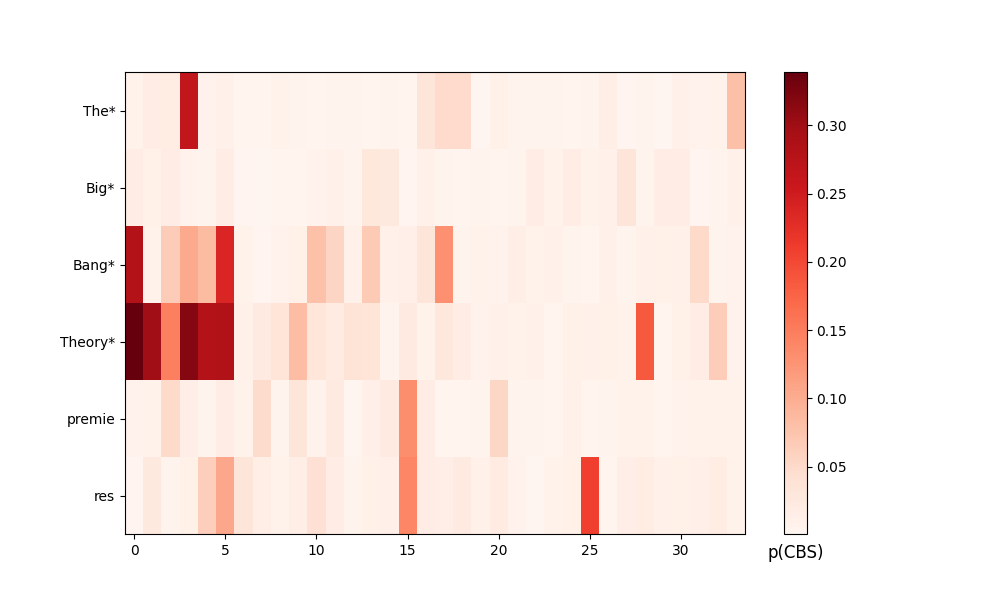
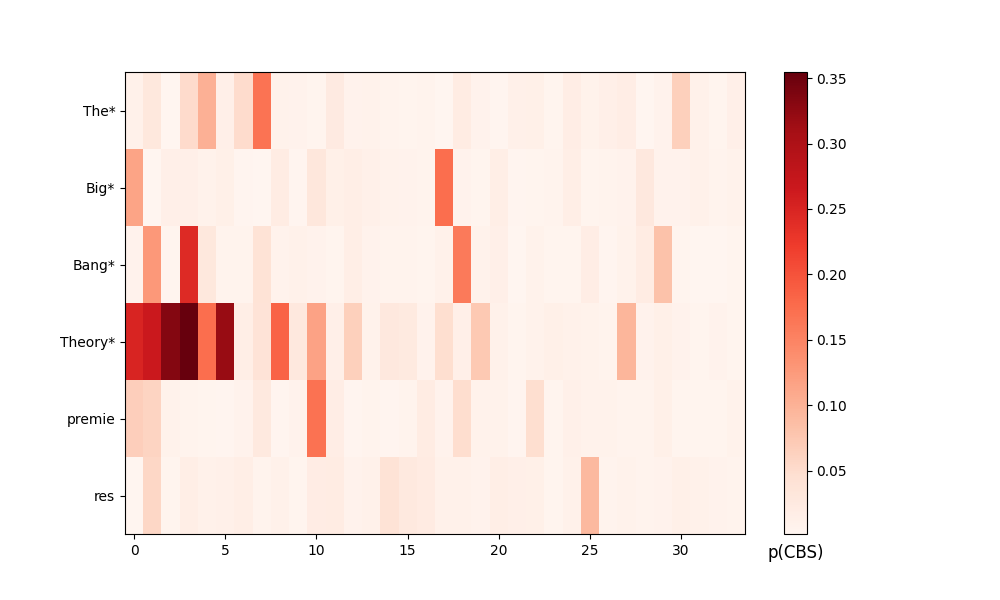
small refactor

diff --git a/ROME.py b/ROME.py
@@ -6,8 +6,84 @@ from transformers import GPT2Tokenizer, GPT2LMHeadModel
 from hooks import FullModelHooks, hidden_patch_hook_fn, additive_noise, mlp_patch_interval, attn_patch_interval
 
 
+def eval_model(model, tokenizer, base_text: str, entity_indices: str, correct_output_text: str):
+    device = next(model.parameters()).device
 
-model_size = 'xl'
+    encoded_base_text = tokenizer(base_text, return_tensors='pt').to(device)
+    num_tokens = encoded_base_text['input_ids'].shape[1]
+    
+    encoded_correct_output_text = tokenizer(correct_output_text, return_tensors='pt').to(device)
+    correct_id = encoded_correct_output_text['input_ids'].item()
+
+    # initial pass
+    output = model(**encoded_base_text)
+
+    # save outputs of model on correct text
+    correct_hidden = {key: hook.features[0].to('cpu') for key, hook in hooks.items() if key.startswith('transformer->h->')}
+
+    # add embedding noise
+    hooks.add_custom_hook('transformer->wte', 'embedding_noise', additive_noise(indices=f"{entity_indices},:", std=0.1))
+
+    # init results
+    results = dict(mlp=dict(), attn=dict(), hidden=dict())
+
+    # mlp
+    for center in range(num_heads):
+        results['mlp'][center] = dict()
+        for pos in range(num_tokens):
+            new_keys = []
+            for layer in range(max(0,center-5), min(num_heads, center+5)): #TODO currently removing and recreating hooks too often -> make as sliding window
+                old_key = f'transformer->h->{layer}->mlp'
+                new_key = f'patch_h{layer}_mlp_pos{pos}'
+                new_keys.append(new_key)
+                hooks.add_custom_hook(old_key, new_key, hidden_patch_hook_fn(pos, correct_hidden[old_key][pos]))
+            output = model(**encoded_base_text)
+
+            prob = torch.softmax(output["logits"][0,-1,:], 0)[correct_id].item()
+            results['mlp'][center][pos] = prob
+            
+            for key in new_keys:
+                hooks.remove_hook(key)
+
+    # attn
+    for center in range(num_heads):
+        results['attn'][center] = dict()
+        for pos in range(num_tokens):
+            new_keys = []
+            for layer in range(max(0,center-5), min(num_heads, center+5)): #TODO currently removing and recreating hooks too often -> make as sliding window
+                old_key = f'transformer->h->{layer}->attn'
+                new_key = f'patch_h{layer}_attn_pos{pos}'
+                new_keys.append(new_key)
+                hooks.add_custom_hook(old_key, new_key, hidden_patch_hook_fn(pos, correct_hidden[old_key][0][pos]))
+            output = model(**encoded_base_text)
+
+            prob = torch.softmax(output["logits"][0,-1,:], 0)[correct_id].item()
+            results['attn'][center][pos] = prob
+            
+            for key in new_keys:
+                hooks.remove_hook(key)
+
+    # hidden
+    for head_num in range(num_heads):
+        results['hidden'][head_num] = dict()
+        for pos in range(num_tokens):
+            old_key = f'transformer->h->{head_num}'
+            new_key = f'patch_h{head_num}_pos{pos}'
+            hooks.add_custom_hook(old_key, new_key, hidden_patch_hook_fn(pos, correct_hidden[old_key][0][pos]))
+
+            output = model(**encoded_base_text)
+
+            prob = torch.softmax(output["logits"][0,-1,:], 0)[correct_id].item()
+            results['hidden'][head_num][pos] = prob
+
+            hooks.remove_hook(new_key)
+
+    return results
+
+
+
+model_size = 'large'
+
 device = 'cuda' if (torch.cuda.is_available() and model_size != 'xl') else 'cpu' # xl doesn't fit on my gpu
 
 size2suffix = {'small':'', 'medium':'-medium', 'large':'-large', 'xl':'-xl'}
@@ -18,85 +94,12 @@ model = GPT2LMHeadModel.from_pretrained(f"gpt2{size2suffix[model_size]}")
 model.to(device)
 model.eval()
 
-
 hooks = FullModelHooks(model)
-print(hooks)
 
 base_text = "The Big Bang Theory premieres on"
-encoded_input = tokenizer(base_text, return_tensors='pt').to(device)
-num_tokens = encoded_input['input_ids'].shape[1]
-print(f"{encoded_input['input_ids'].shape = }") 
+correct_output_text = " CBS"
 
-
-encoded_output = tokenizer(" CBS", return_tensors='pt').to(device)
-correct_id = encoded_output['input_ids'][0,0]
-# print(f'{correct_id = }')
-
-output = model(**encoded_input)
-# probs = torch.softmax(output['logits'][0,-1,:], 0)
-# print(f"{probs[correct_id] = }")
-# print(f"{probs.max() = }")
-# print(f"{probs.argmax() = }")
-# max_token = tokenizer.batch_decode(probs.argmax()[None])
-# print(f'{max_token = }')
-
-# save outputs of model on correct text -> very expensive computation, maybe iteratively save to disk instead?
-correct_hidden = {key: hook.features[0].to('cpu') for key, hook in hooks.items() if key.startswith('transformer->h->')}
-
-hooks.add_custom_hook('transformer->wte', 'embedding_noise', additive_noise(indices=":4,:", std=0.1))
-
-results = dict(mlp=dict(), attn=dict(), hidden=dict())
-
-# mlp
-for center in range(num_heads):
-    results['mlp'][center] = dict()
-    for pos in range(num_tokens):
-        new_keys = []
-        for layer in range(max(0,center-5), min(num_heads, center+5)): #TODO currently removing and recreating hooks too often -> make as sliding window
-            old_key = f'transformer->h->{layer}->mlp'
-            new_key = f'patch_h{layer}_mlp_pos{pos}'
-            new_keys.append(new_key)
-            hooks.add_custom_hook(old_key, new_key, hidden_patch_hook_fn(pos, correct_hidden[old_key][pos]))
-        output = model(**encoded_input)
-
-        prob = torch.softmax(output["logits"][0,-1,:], 0)[correct_id].item()
-        results['mlp'][center][pos] = prob
-        
-        for key in new_keys:
-            hooks.remove_hook(key)
-
-# attn
-for center in range(num_heads):
-    results['attn'][center] = dict()
-    for pos in range(num_tokens):
-        new_keys = []
-        for layer in range(max(0,center-5), min(num_heads, center+5)): #TODO currently removing and recreating hooks too often -> make as sliding window
-            old_key = f'transformer->h->{layer}->attn'
-            new_key = f'patch_h{layer}_attn_pos{pos}'
-            new_keys.append(new_key)
-            hooks.add_custom_hook(old_key, new_key, hidden_patch_hook_fn(pos, correct_hidden[old_key][0][pos]))
-        output = model(**encoded_input)
-
-        prob = torch.softmax(output["logits"][0,-1,:], 0)[correct_id].item()
-        results['attn'][center][pos] = prob
-        
-        for key in new_keys:
-            hooks.remove_hook(key)
-
-# hidden
-for head_num in range(num_heads):
-    results['hidden'][head_num] = dict()
-    for pos in range(num_tokens):
-        old_key = f'transformer->h->{head_num}'
-        new_key = f'patch_h{head_num}_pos{pos}'
-        hooks.add_custom_hook(old_key, new_key, hidden_patch_hook_fn(pos, correct_hidden[old_key][0][pos]))
-
-        output = model(**encoded_input)
-
-        prob = torch.softmax(output["logits"][0,-1,:], 0)[correct_id].item()
-        results['hidden'][head_num][pos] = prob
-
-        hooks.remove_hook(new_key)
+results = eval_model(model, tokenizer, base_text, ":4", correct_output_text)
 
 # print(results)
 with open(f'./rome_results_{model_size}.json', 'w') as f:
